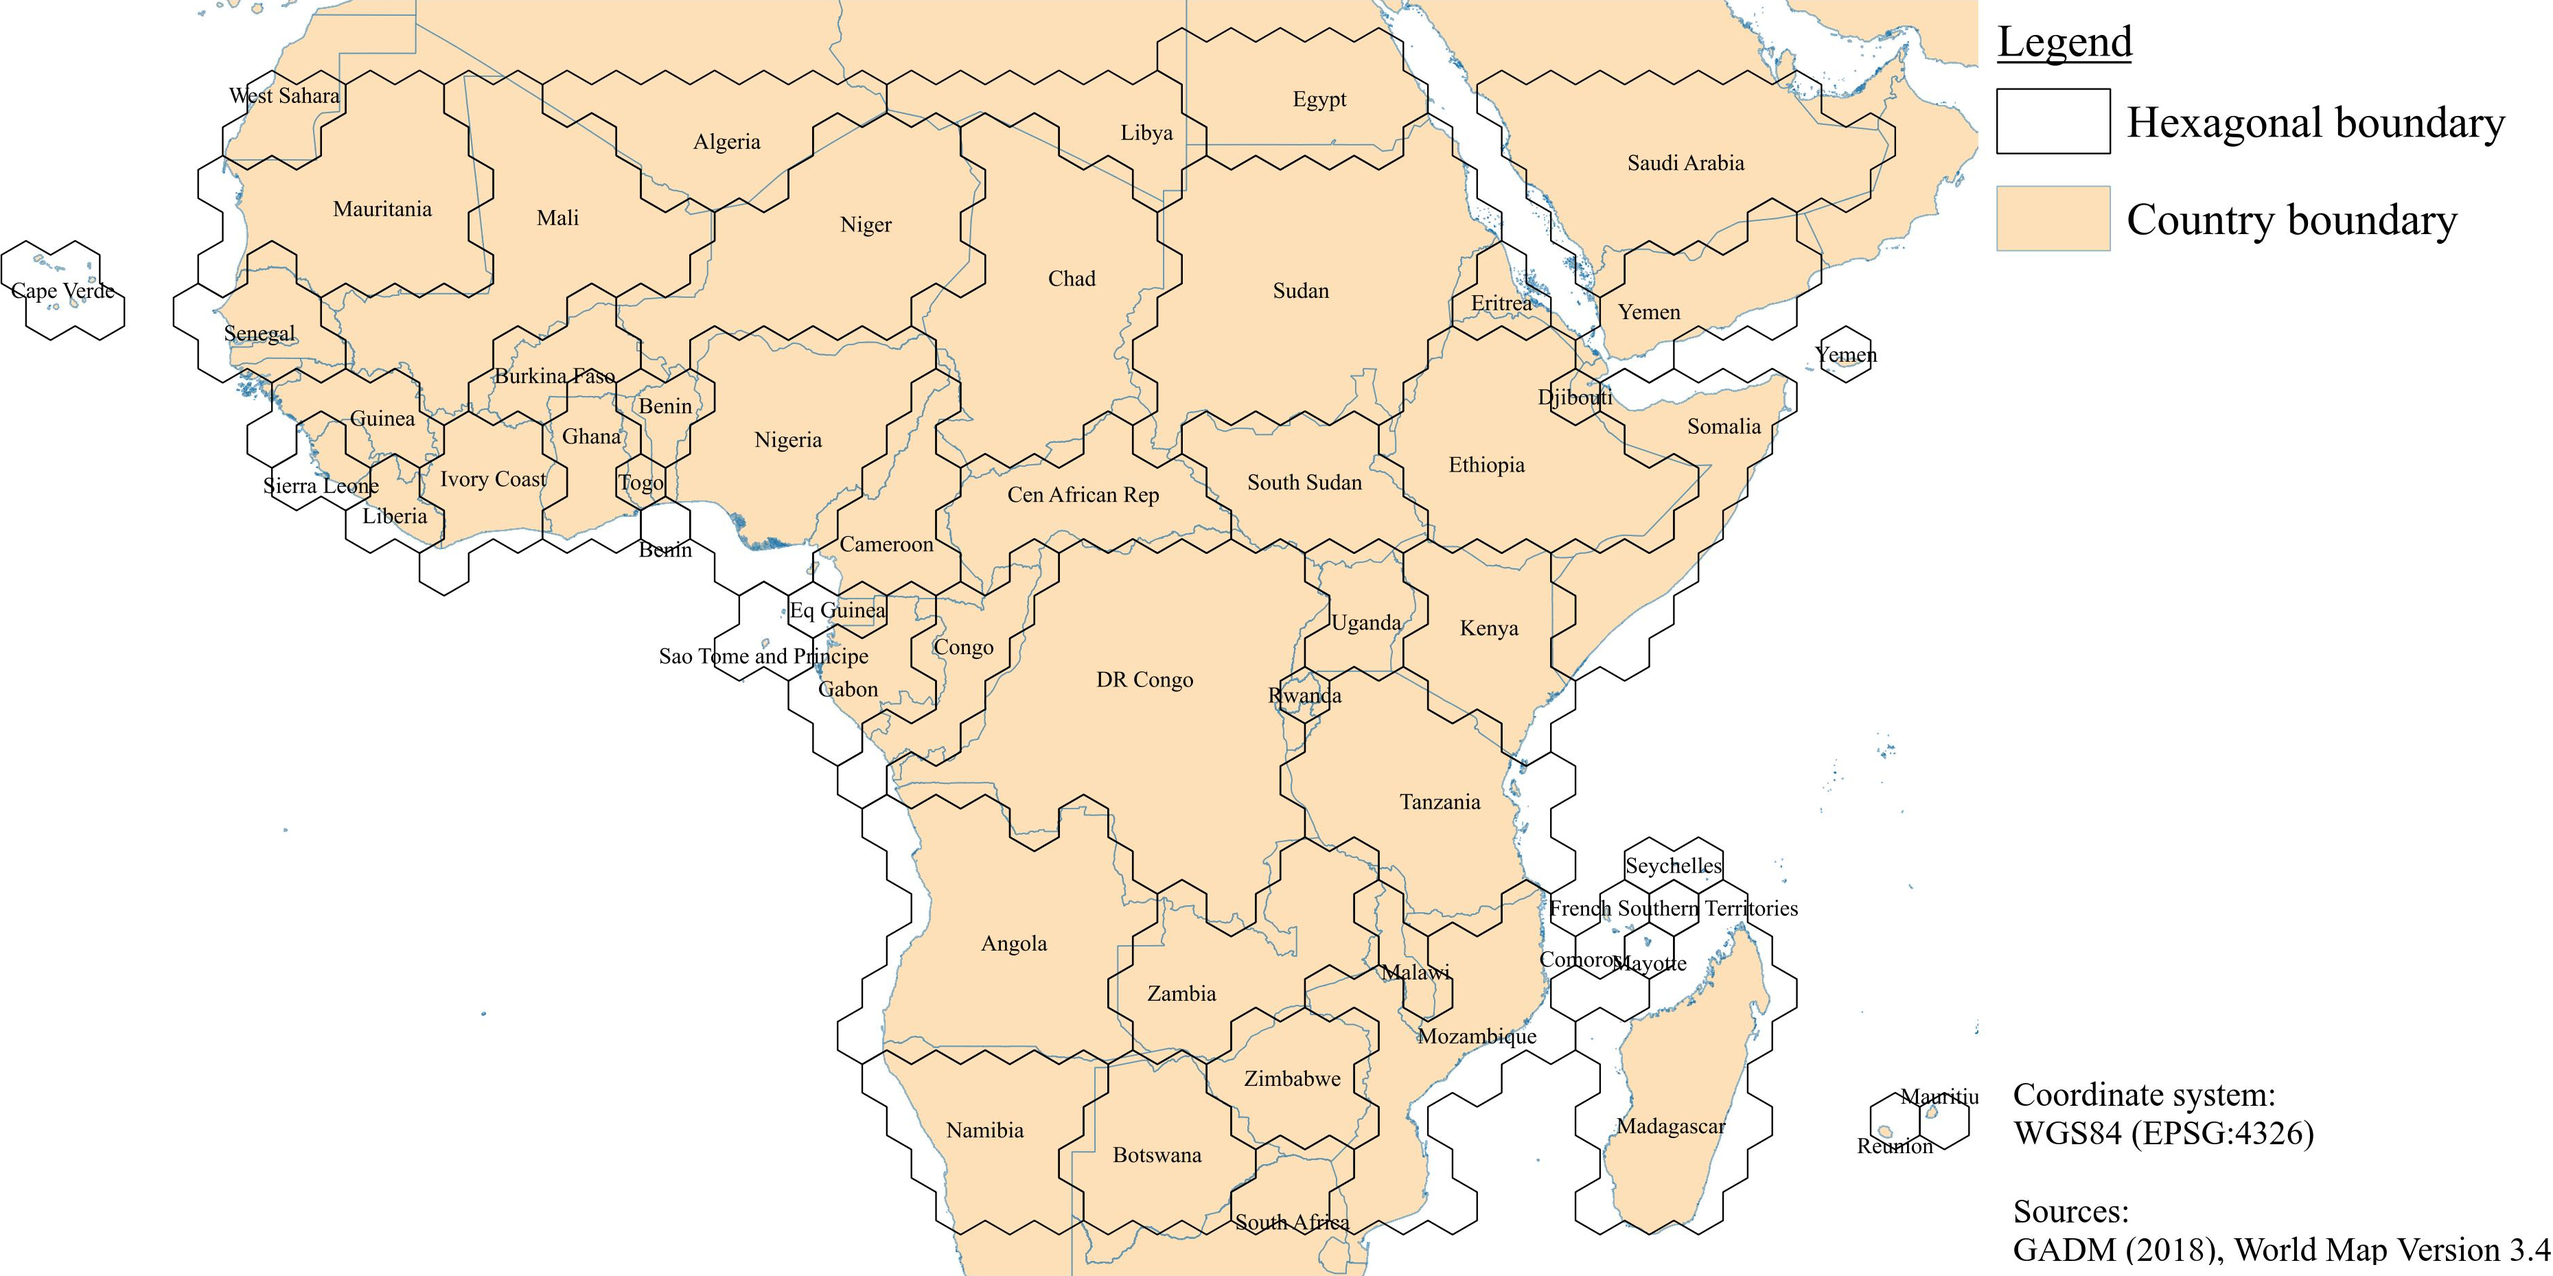
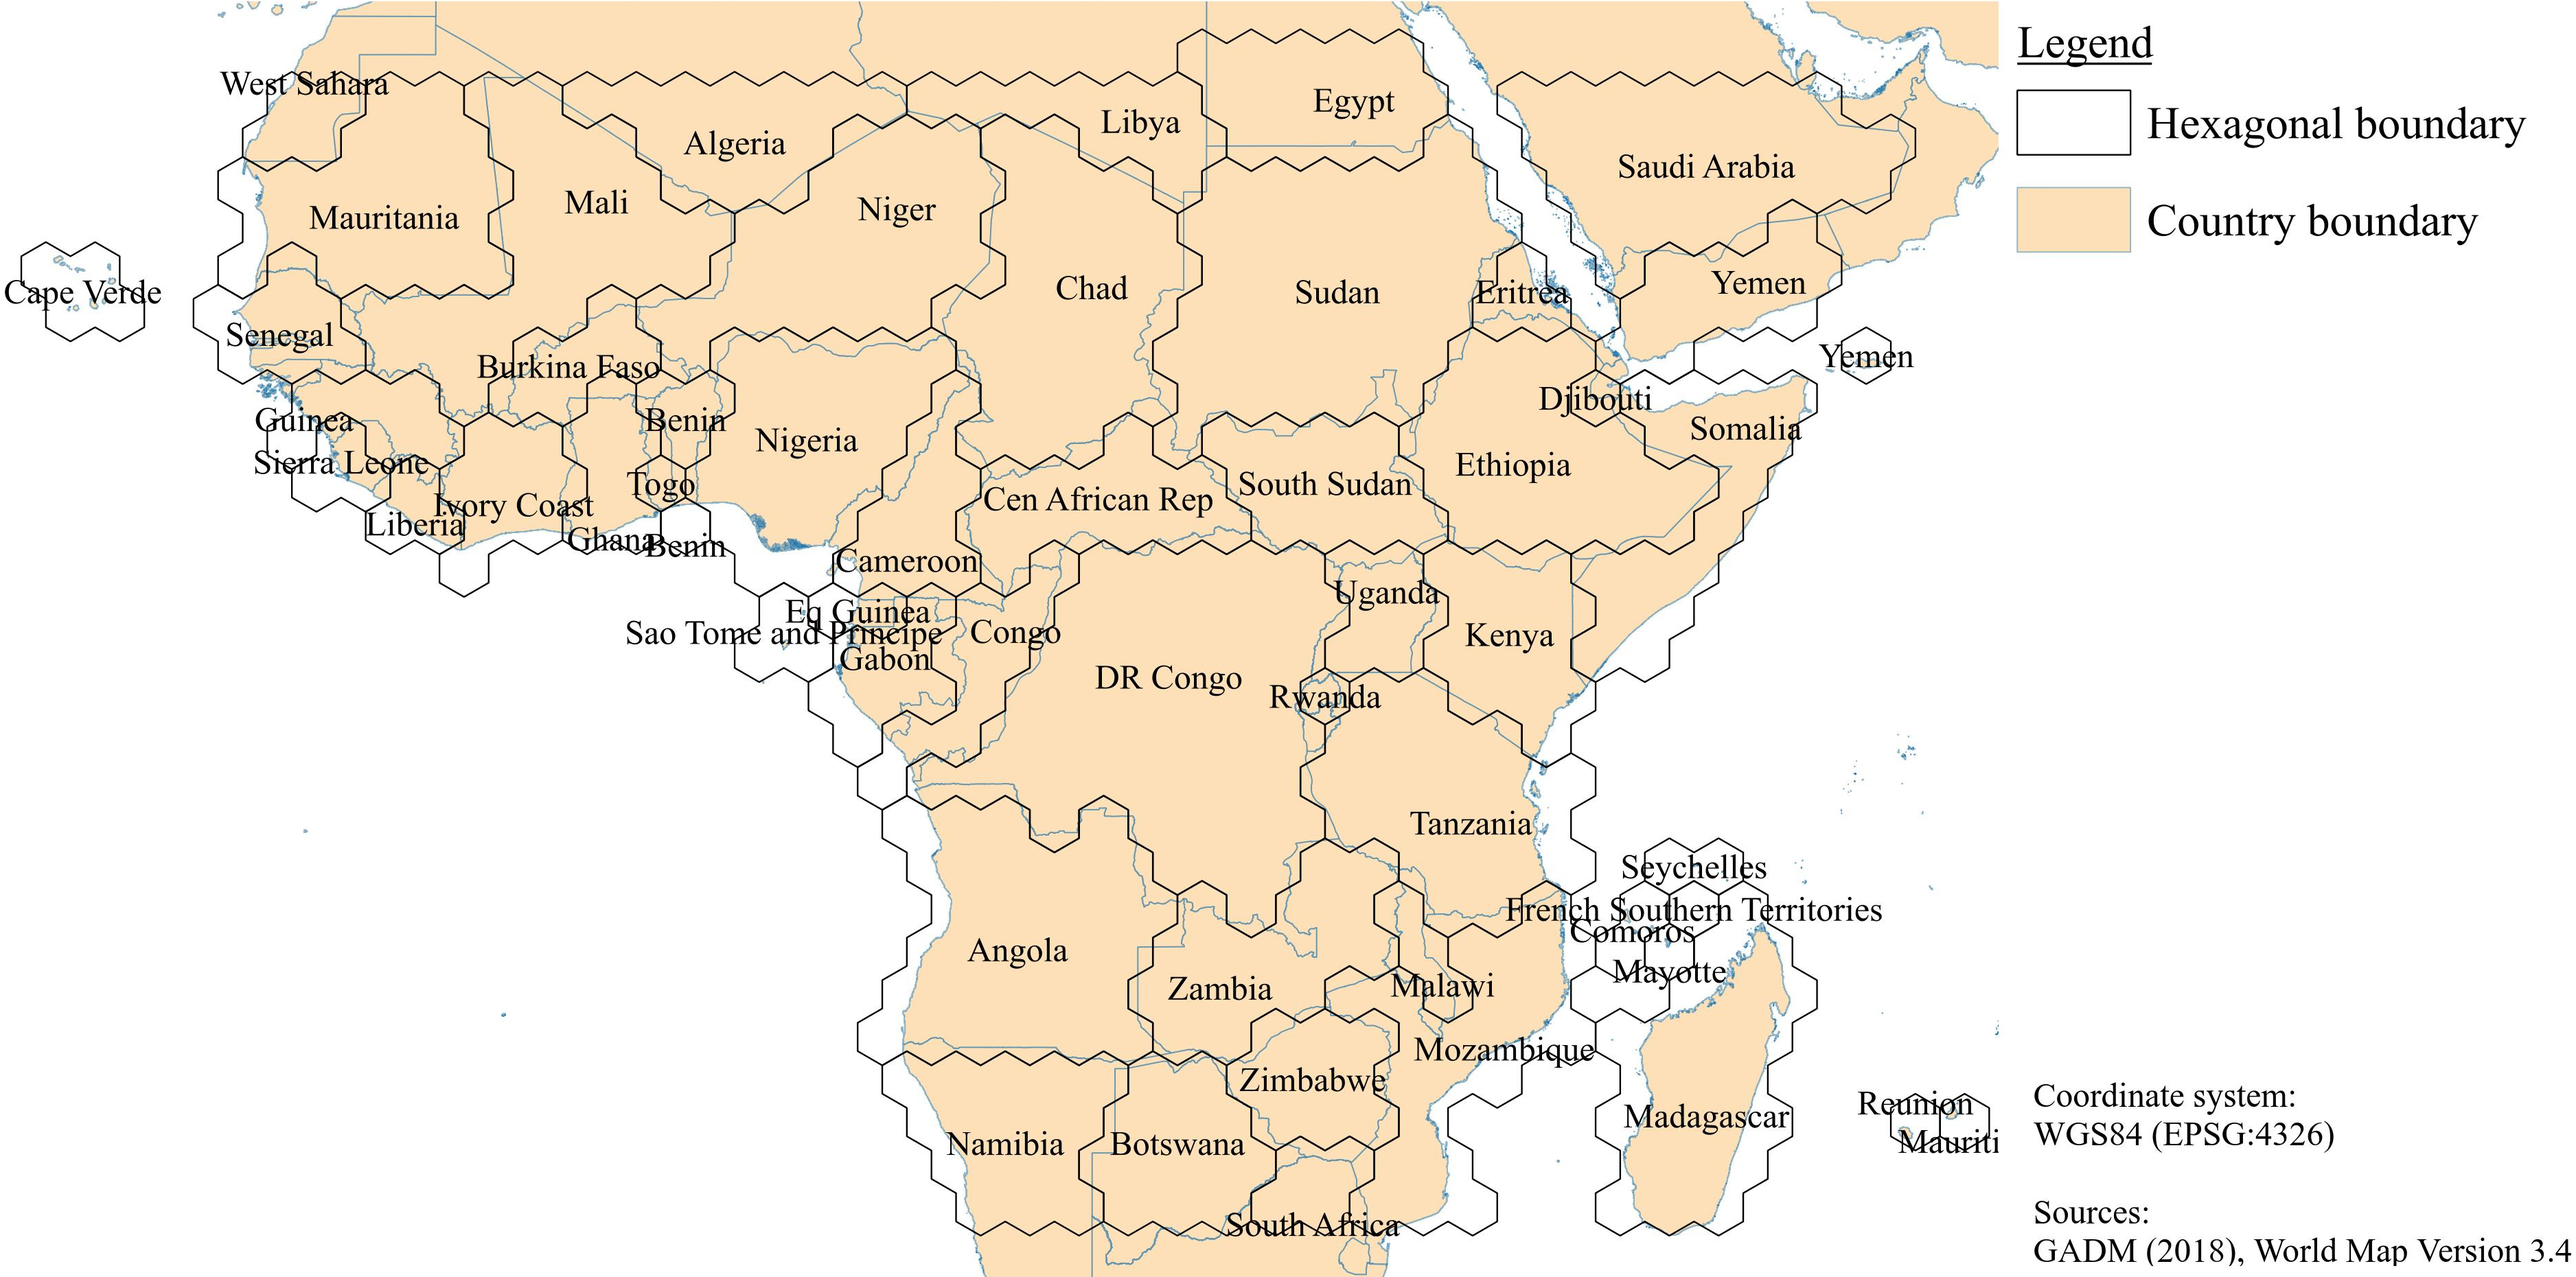
Writing

diff --git a/thesis/hnee_print.tex b/thesis/hnee_print.tex
@@ -1,4 +1,4 @@
-\documentclass[fontsize=12pt, twoside, a4paper]{scrartcl} % koma class
+\documentclass[fontsize=12pt, twoside, a4paper]{scrreprt} % koma class
 
 % paper properties
 \usepackage{geometry}
@@ -19,10 +19,15 @@
 \usepackage{mathptmx} % times new roman
 \usepackage[onehalfspacing]{setspace}
 \AfterTOCHead{\singlespacing}
-\KOMAoptions{parskip=half}
-\KOMAoptions{titlepage=true}
-\KOMAoptions{draft=true}  % COMMENT IF DOCUMENT GOES IN PRINT
+\KOMAoptions{
+	parskip=half,
+	titlepage=true,
+	draft=true  %TODO false in print
+}
 \addtokomafont{disposition}{\normalfont}
+\addtokomafont{caption}{\footnotesize}
+\setkomafont{captionlabel}{\bfseries}
+\usepackage{color}
 
 % special symbols
 \usepackage{soul}
@@ -36,40 +41,54 @@
 
 % lists
 \usepackage{acronym}
-\usepackage{natbib} % bibliography
+\usepackage{natbib}
 \setcitestyle{sort,authoryear,square,semicolon,aysep={}}
 \renewcommand{\bibfont}{\small \singlespacing}
-\KOMAoptions{toc=listof}
-\KOMAoptions{toc=bibliography}
+\KOMAoptions{
+	%toc=listof,
+	toc=bibliography,
+	listof=flat,
+}
 
 % tables
-\KOMAoptions{captions=tableheading}
+\KOMAoption{captions}{tableheading}
+\usepackage{multirow}
+\usepackage{multicol}
+\usepackage{array}
+\usepackage{longtable}
+\usepackage{pdflscape}
+
+% images
+\usepackage{graphicx}
+
+% fix hbox warn for bbl
+\usepackage{etoolbox}
+\apptocmd{\thebibliography}{\raggedright}{}{}
 
 % hyperlinks
 \usepackage[hidelinks, colorlinks=false, urlcolor=blue, linkcolor=blue, citecolor = blue]{hyperref}
-\hypersetup{pdftitle={A comprehensive study on deforestation in the tropical zone}}
+\hypersetup{pdftitle={Global assessment of deforestation drivers across the tropics: impacts on carbon stocks and ecosystem services}}
 \hypersetup{pdfauthor={Tobias Seydewitz}}
-\hypersetup{pdfsubject={Evaluating the direct deforestation drivers, estimating the carbon emissions trough deforestation and evaluating the ecosystem service value balance of land cover change in the tropical zone between 23.43N and 23.43S.}}
+\hypersetup{pdfsubject={Global assessment of deforestation drivers across the tropics: impacts on carbon stocks and ecosystem services}}
 \hypersetup{pdfcreator={Tobias Seydewitz}}
 \hypersetup{pdfproducer={Tobias Seydewitz}}
-\hypersetup{pdfkeywords={climate, emissions, soil organic carbon change, GIS, ecosystem service values, deforestation}}
+\hypersetup{pdfkeywords={deforestation, proximate driver, GHG emissions, ecosystem services, tropics}}
 \hypersetup{pdfdisplaydoctitle=true}
 
 % new commands
 \newcommand*\BlankPage{\newpage\null\thispagestyle{empty}\newpage}
 \newcommand{\leadingzero}[1]{\ifnum #1<10 0\the#1\else\the#1\fi}
 \newcommand{\todayI}{\leadingzero{\day}.\leadingzero{\month}.\the\year}
+\newcommand{\STAB}[1]{\begin{tabular}{@{}c@{}}#1\end{tabular}}
+\newcommand*\note[1]{{\color{red} #1}}
+\renewcommand*{\captionformat}{ }
 
+\vbadness=10000
 %\recalctypearea
 
 %\usepackage{tabularx}
-%\usepackage{array}
 %\usepackage{caption}
-%\usepackage{longtable}
 %\usepackage{rotating}
-%\usepackage{multirow}
-%\usepackage{multicol}
-%\usepackage{graphicx}
 %\usepackage{tcolorbox} 
 %\usepackage{color}
 %\usepackage{colortbl}
@@ -88,31 +107,33 @@
 %\Huge 24.88pt
 
 
+
 \begin{document}
-	\nocite{*}
+
+%\nocite{*} % cite all no matter if used in text
 	\bibliographystyle{tobinat}
 
 	\hypersetup{pageanchor=false}
 
-	% title page
-	\input{cover/hnee_cover.tex}
+% title page
+		\input{cover/hnee_cover.tex}
 	\BlankPage
 
-	% declarations
-	\input{declarations/promoter.tex}
+% declarations
+		\input{declarations/promoter.tex}
 	\BlankPage
-	\input{declarations/author.tex}
-	\BlankPage
-
-	\BlankPage
+		\input{declarations/author.tex}
 	\BlankPage
 
-	% abstracts
-	\input{abstracts/streszczenie.tex}
 	\BlankPage
-	\input{abstracts/abstract.tex}
 	\BlankPage
-	\input{abstracts/zusammenfassung.tex}
+
+% abstracts
+		\input{abstracts/streszczenie.tex}
+	\BlankPage
+		\input{abstracts/abstract.tex}
+	\BlankPage
+		\input{abstracts/zusammenfassung.tex}
 	\BlankPage
 
 	\BlankPage
@@ -120,43 +141,43 @@
 
 	\hypersetup{pageanchor=true}
 	\pagenumbering{arabic}
-	\setcounter{page}{9}
-
-
-	% table of contents
-	\setcounter{secnumdepth}{4} 
-	\setcounter{tocdepth}{4}
-	\tableofcontents
-	\newpage
-
-	% content
-	\input{introduction/introduction.tex}
-	\input{methods/methods.tex}
-	\input{results/results.tex}
-	\input{discussion/discussion.tex}
-	\input{conclusion/conclusion.tex}
-	\newpage
-
-	\input{acknowledgements/acknowledge.tex}
-	\newpage
-
-
-	\pagenumbering{Roman}
 	\setcounter{page}{1}
 
 
-	% references
-	\input{references/references.tex}
-	\newpage
+% table of contents
+	\setcounter{secnumdepth}{3} 
+	\setcounter{tocdepth}{2}
+		\tableofcontents
+	\clearpage
 
-	% lists
-	\input{lists/lists.tex}
-	\newpage
+% lists
+		\input{lists/lists.tex}
+	\clearpage
 
-	% appendix
-	\input{appendix/appendix.tex}
-	\newpage
+% content
+		\input{1_introduction/introduction.tex}
+	\clearpage
+		\input{2_methods/methods.tex}
+	\clearpage
+		\input{3_results/results.tex}
+	\clearpage
+		\input{4_discussion/discussion.tex}
+	\clearpage
+		\input{5_conclusion/conclusion.tex}
+	\clearpage
+		\input{acknowledgements/acknowledge.tex}
+	\clearpage
+		\input{references/references.tex}
+	\clearpage
 
-	% share approval
-	\input{share/hnee_share.tex}
+%\pagenumbering{Roman}
+%\setcounter{page}{1}
+
+% appendix
+		\input{appendix/appendix.tex}
+	\clearpage
+
+% share approval
+		\input{share/hnee_share.tex}
+
 \end{document}

diff --git a/thesis/sggw_print.tex b/thesis/sggw_print.tex
@@ -67,12 +67,12 @@
 
 % hyperlinks
 \usepackage[hidelinks, colorlinks=false, urlcolor=blue, linkcolor=blue, citecolor = blue]{hyperref}
-\hypersetup{pdftitle={A comprehensive study on deforestation in the tropical zone}}
+\hypersetup{pdftitle={Global assessment of deforestation drivers across the tropics: impacts on carbon stocks and ecosystem services}}
 \hypersetup{pdfauthor={Tobias Seydewitz}}
-\hypersetup{pdfsubject={Evaluating the direct deforestation drivers, estimating the carbon emissions trough deforestation and evaluating the ecosystem service value balance of land cover change in the tropical zone between 23.43N and 23.43S.}}
+\hypersetup{pdfsubject={Global assessment of deforestation drivers across the tropics: impacts on carbon stocks and ecosystem services}}
 \hypersetup{pdfcreator={Tobias Seydewitz}}
 \hypersetup{pdfproducer={Tobias Seydewitz}}
-\hypersetup{pdfkeywords={climate, emissions, soil organic carbon change, GIS, ecosystem service values, deforestation}}
+\hypersetup{pdfkeywords={deforestation, proximate driver, GHG emissions, ecosystem services, tropics}}
 \hypersetup{pdfdisplaydoctitle=true}
 
 % new commands
@@ -143,7 +143,6 @@
 
 
 % table of contents
-%TODO toc-depth 3 in print
 		\setcounter{secnumdepth}{3} 
 		\setcounter{tocdepth}{2}
 		\tableofcontents

diff --git a/thesis/cover/hnee_cover.tex b/thesis/cover/hnee_cover.tex
@@ -14,12 +14,12 @@
 			\bigskip
 
 			\large{Tobias Seydewitz}\\
-			\normalsize{Album number SGGW: 178311}\\
-			\normalsize{Album number HNEE: 15210024}
+			\normalsize{HNEE Student ID: 15210024}\\
+			\normalsize{SGGW Student ID: 178311}
 
 			\vspace{2cm}
  
-			 \huge{A comprehensive study on deforestation in the tropics - direct deforestation drivers, carbon emissions and ecosystem service value balance}
+			 \huge{Global assessment of deforestation drivers across the tropics: impacts on carbon stocks and ecosystem services}
 
 			\bigskip
 
@@ -35,7 +35,7 @@
 				\normalsize{Research Domain II - Climate Climate Impacts \& Vulnerabilities}
 			\end{flushright}
 
-			\vspace{3cm}
+			\vspace{5cm}
 
 			\normalsize{Potsdam, \the\year}
 		\end{center}

diff --git a/thesis/appendix/appendix.tex b/thesis/appendix/appendix.tex
@@ -17,7 +17,7 @@
 	\end{figure}
 	\begin{figure}[t]
 		\centering
-		\includegraphics[scale=.98]{img/africa_hexagonal_boundaries}
+		\includegraphics[scale=.97]{img/africa_hexagonal_boundaries}
 		\caption[Map of Africa and its countries]{\textbf{Map of Africa and its countries:} The map shows the hexagonal boundaries of African countries, while the blue outlines highlight the administrative country boundaries in relation to the Global Administrative Areas layer.}
 		\label{fig:africa_hexagonal_appendix}
 	\end{figure}
